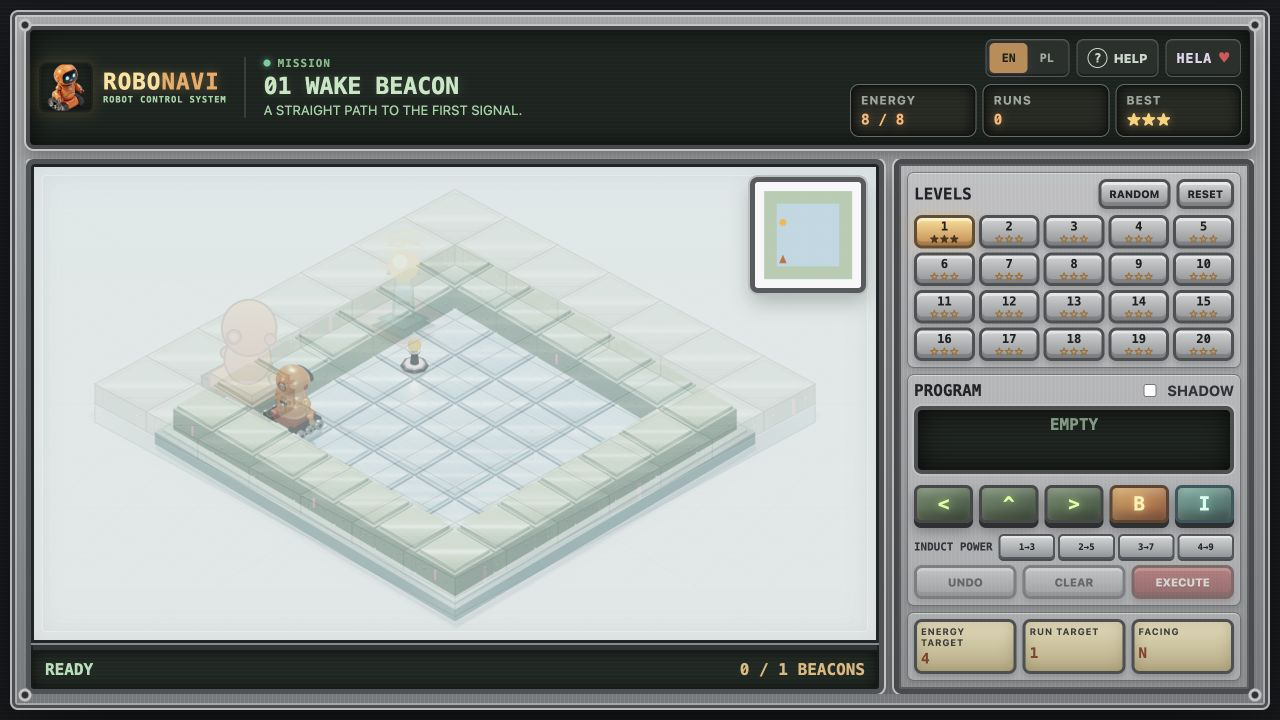
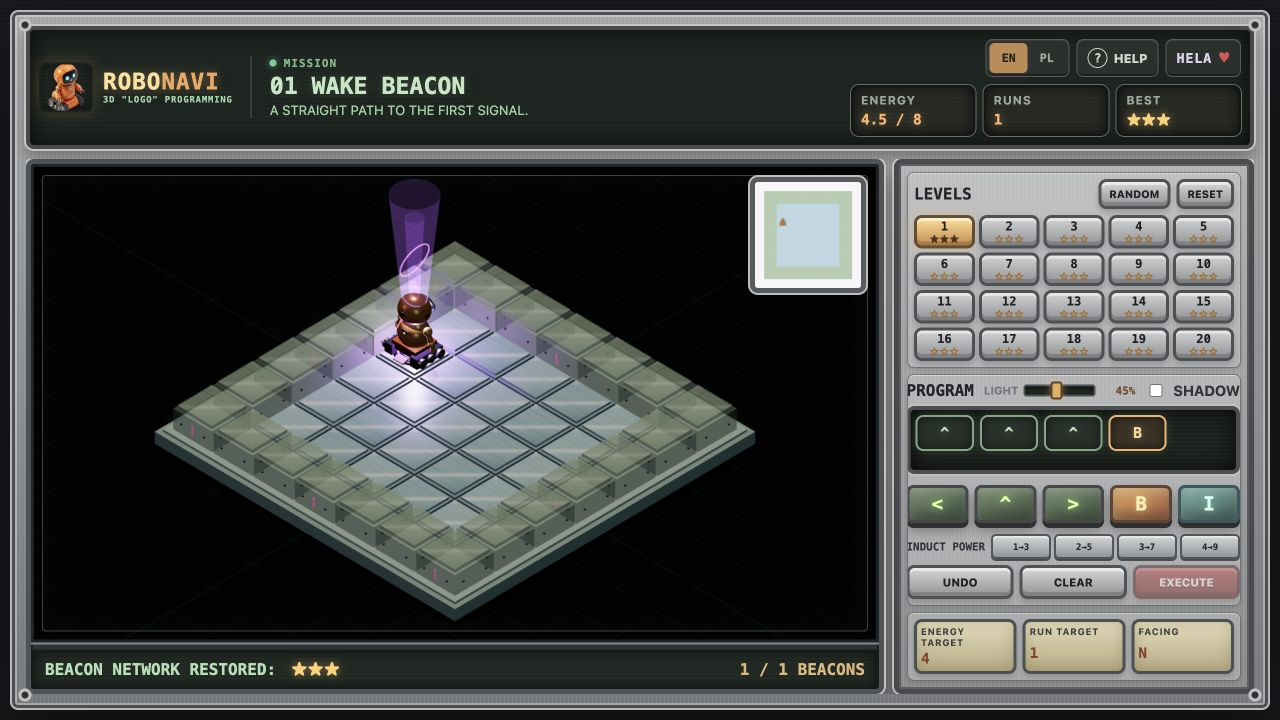
Turn beacons into floor projectors

diff --git a/src/app.js b/src/app.js
@@ -1729,100 +1729,96 @@
   function drawGoal(goal, index, layout) {
     var center = cellCenter(goal.x, goal.y, layout);
     var collected = (state.robot.collected & goalMask(index)) !== 0;
-    var baseAccent = collected ? "#58c9a3" : "#5aaec4";
-    var signal = "#f4b83f";
-    var signalBright = "#fff7b2";
+    var failed = state.gameOver && !collected;
+    var padColors = ["#cc91d9", "#d7b66c", "#8ecbb4", "#aaa0d9"];
+    var baseAccent = padColors[index % padColors.length];
+    var signal = failed ? "#ef6477" : "#b85cff";
+    var signalBright = failed ? "#ffd5dc" : "#f2d5ff";
     var scale = Math.max(0.42, Math.min(2.05, layout.tileW / 60));
 
     ctx.save();
     ctx.translate(center.x, center.y);
     ctx.scale(scale, scale);
 
-    ctx.fillStyle = "rgba(31, 37, 40, 0.2)";
+    if (collected) {
+      var beamGradient = ctx.createLinearGradient(0, 4, 0, -118);
+      beamGradient.addColorStop(0, "rgba(184, 92, 255, 0.62)");
+      beamGradient.addColorStop(0.58, "rgba(184, 92, 255, 0.2)");
+      beamGradient.addColorStop(1, "rgba(184, 92, 255, 0)");
+      ctx.save();
+      ctx.globalCompositeOperation = "screen";
+      ctx.fillStyle = beamGradient;
+      ctx.beginPath();
+      ctx.moveTo(-8, 2);
+      ctx.lineTo(-30, -118);
+      ctx.lineTo(30, -118);
+      ctx.lineTo(8, 2);
+      ctx.closePath();
+      ctx.fill();
+      ctx.restore();
+    }
+
+    ctx.fillStyle = "rgba(0, 0, 0, 0.44)";
     ctx.beginPath();
-    ctx.ellipse(0, 6, 19, 8, 0, 0, Math.PI * 2);
+    ctx.ellipse(0, 5, 20, 9, 0, 0, Math.PI * 2);
     ctx.fill();
 
-    drawPolygon(
-      [
-        { x: 0, y: -4 },
-        { x: 17, y: 3 },
-        { x: 0, y: 11 },
-        { x: -17, y: 3 }
-      ],
-      "#547b88",
-      "#345b68",
-      1.6
-    );
-    drawPolygon(
-      [
-        { x: 0, y: -7 },
-        { x: 14, y: -1 },
-        { x: 0, y: 6 },
-        { x: -14, y: -1 }
-      ],
-      baseAccent,
-      "#426f7b",
-      1.4
-    );
-
-    ctx.fillStyle = "#7aaeb4";
-    ctx.strokeStyle = "#3f6974";
-    ctx.lineWidth = 1.8;
+    ctx.fillStyle = "#263038";
+    ctx.strokeStyle = "#66727a";
+    ctx.lineWidth = 2;
     ctx.beginPath();
-    ctx.moveTo(-6, -2);
-    ctx.lineTo(-4.5, -27);
-    ctx.lineTo(4.5, -27);
-    ctx.lineTo(6, -2);
-    ctx.closePath();
+    ctx.ellipse(0, 1, 18, 8, 0, 0, Math.PI * 2);
     ctx.fill();
     ctx.stroke();
 
-    ctx.fillStyle = baseAccent;
-    ctx.fillRect(-5, -18, 10, 4);
-    ctx.fillStyle = "#406a75";
-    ctx.fillRect(-3.8, -11, 7.6, 2.5);
-
-    ctx.fillStyle = "#486d78";
-    ctx.strokeStyle = "#315560";
-    ctx.lineWidth = 1.4;
+    ctx.strokeStyle = baseAccent;
+    ctx.lineWidth = 3;
     ctx.beginPath();
-    ctx.moveTo(-9, -27);
-    ctx.lineTo(-6, -36);
-    ctx.lineTo(6, -36);
-    ctx.lineTo(9, -27);
-    ctx.closePath();
-    ctx.fill();
+    ctx.ellipse(0, 1, 14, 6, 0, 0, Math.PI * 2);
     ctx.stroke();
+
+    var hatchOffset = collected ? 14 : 7;
+    [
+      [-hatchOffset, -1, -1],
+      [hatchOffset, -1, 1],
+      [0, -5 - hatchOffset * 0.18, 0],
+      [0, 4 + hatchOffset * 0.18, 0]
+    ].forEach(function (panel, panelIndex) {
+      ctx.save();
+      ctx.translate(panel[0], panel[1]);
+      ctx.rotate(panelIndex < 2 ? panel[2] * 0.14 : 0);
+      ctx.fillStyle = baseAccent;
+      ctx.strokeStyle = "#343d43";
+      ctx.lineWidth = 1;
+      ctx.fillRect(-5, -2, 10, 4);
+      ctx.strokeRect(-5, -2, 10, 4);
+      ctx.restore();
+    });
 
     ctx.save();
     ctx.shadowColor = signal;
-    ctx.shadowBlur = 20;
+    ctx.shadowBlur = collected ? 24 : 10;
     ctx.fillStyle = signal;
     ctx.beginPath();
-    ctx.arc(0, -32, 9, 0, Math.PI * 2);
+    ctx.ellipse(0, 1, 7, 3.2, 0, 0, Math.PI * 2);
     ctx.fill();
     ctx.shadowBlur = 0;
     ctx.fillStyle = signalBright;
     ctx.beginPath();
-    ctx.arc(-2, -34, 4.2, 0, Math.PI * 2);
+    ctx.ellipse(-1.5, 0, 3.2, 1.4, 0, 0, Math.PI * 2);
     ctx.fill();
     ctx.restore();
 
-    ctx.strokeStyle = "rgba(244, 184, 63, 0.72)";
-    ctx.lineWidth = 1.7;
-    ctx.beginPath();
-    ctx.moveTo(-15, -32);
-    ctx.lineTo(-11, -32);
-    ctx.moveTo(11, -32);
-    ctx.lineTo(15, -32);
-    ctx.moveTo(0, -47);
-    ctx.lineTo(0, -43);
-    ctx.arc(0, -32, 15, -Math.PI * 0.72, -Math.PI * 0.28);
-    ctx.arc(0, -32, 20, -Math.PI * 0.67, -Math.PI * 0.33);
-    ctx.stroke();
+    if (collected) {
+      ctx.strokeStyle = "rgba(216, 157, 255, 0.72)";
+      ctx.lineWidth = 1.4;
+      [22, 43, 68].forEach(function (height, ringIndex) {
+        ctx.beginPath();
+        ctx.ellipse(0, -height, 10 + ringIndex * 5, 3 + ringIndex, 0, 0, Math.PI * 2);
+        ctx.stroke();
+      });
+    }
     ctx.restore();
-
   }
 
   function drawBeaconCountdown(center, collected, layout) {

diff --git a/index.html b/index.html
@@ -269,7 +269,7 @@
 
     <script src="src/core.js?v=20260723-2035"></script>
     <script src="src/generator.js?v=20260723-2035"></script>
-    <script src="src/app.js?v=20260724-light1"></script>
-    <script type="module" src="src/three-renderer.mjs?v=20260724-light1"></script>
+    <script src="src/app.js?v=20260724-beam1"></script>
+    <script type="module" src="src/three-renderer.mjs?v=20260724-beam1"></script>
   </body>
 </html>

diff --git a/README.md b/README.md
@@ -18,7 +18,7 @@ the whole program.
 - Dijkstra validation and A* reference programs for generated boards
 - Forward, left, right, beacon-battery, and inductive-charge programming
 - Floor, walls, sand, ice, charging stations, and signal beacons
-- Three.js 3D board and robot with metallic PBR materials and dynamic beacon lights
+- Three.js 3D board and robot with metallic PBR materials and purple floor-projector beacons
 - Black cockpit display with a persistent global-light control
 - Automatic Canvas fallback when WebGL or JavaScript modules are unavailable
 - Optional route preview without a ghost robot